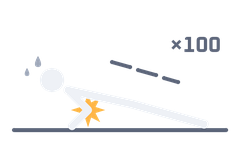
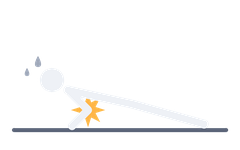
fix(warning): simplify the pictogram after the device check
A check on a phone showed the "×100" text does not work. Use the
revision without it and without the repetition lines: only the bent
arms, the pain burst at the elbow and the sweat drops. The screen reader
label now matches the new picture.

Changed region(s): [[0.7, 0.24, 0.9333, 0.3467], [0.4375, 0.4, 0.7583, 0.56]]

diff --git a/gymrats_app/lib/widgets/safe_warning_dialog.dart b/gymrats_app/lib/widgets/safe_warning_dialog.dart
@@ -25,7 +25,7 @@ class SafeWarningDialog extends StatefulWidget {
   static const picture = 'assets/images/safe_warning.png';
 
   /// What a screen reader says for [picture].
-  static const pictureLabel = '팔을 깊게 굽힌 채 너무 많이 반복하다 팔꿈치를 다친 모습';
+  static const pictureLabel = '팔을 깊게 굽힌 채 무리하다 팔꿈치를 다친 모습';
 
   @override
   State<SafeWarningDialog> createState() => _SafeWarningDialogState();
